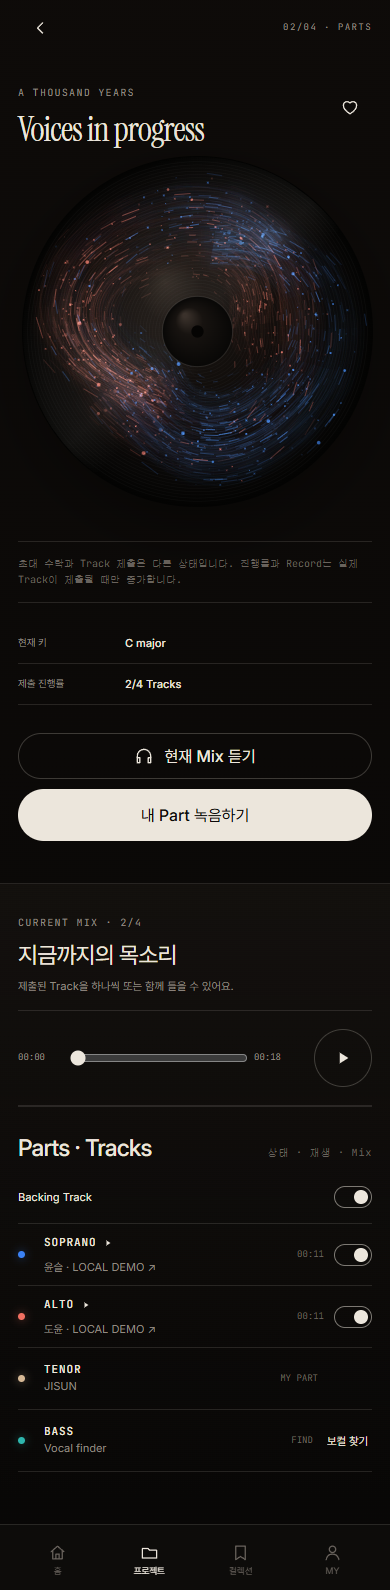
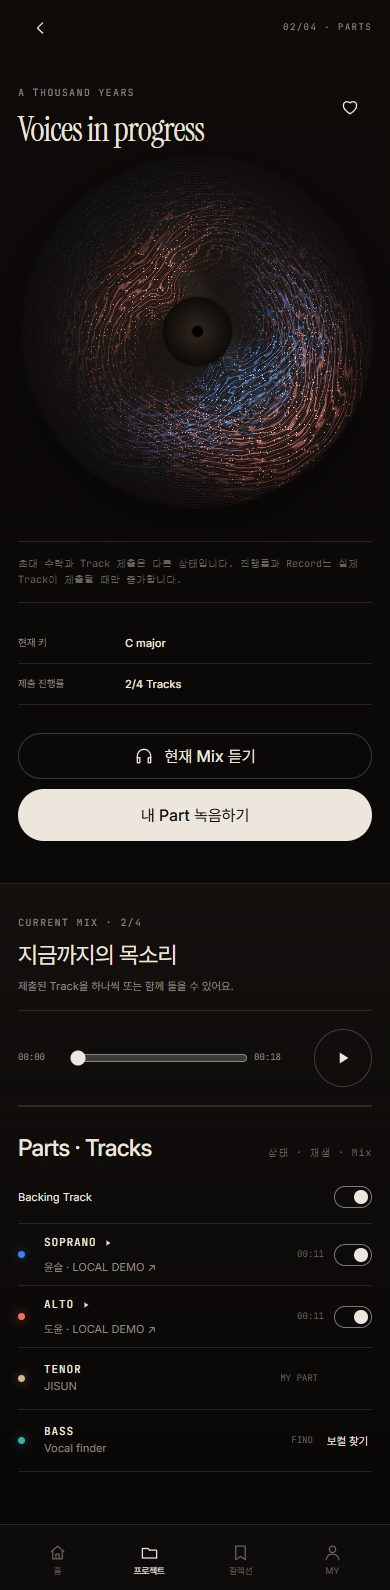
Replace resonance canvas with WebGL flow field

Changed region(s): [[0.1231, 0.1233, 0.9231, 0.3082]]

diff --git a/src/App.jsx b/src/App.jsx
@@ -181,171 +181,71 @@ function ResonanceRecord({ active = [true, false, true, false], layers = [], act
   useEffect(() => {
     const canvas = canvasRef.current
     if (!canvas) return
-    const ctx = canvas.getContext('2d')
-    const ratio = Math.min(window.devicePixelRatio || 1, 2)
-    let frame = 0, raf = 0, lastPaint = 0
-    const resize = () => {
-      const size = canvas.clientWidth
-      if (size < 8) return false
-      canvas.width = size * ratio
-      canvas.height = size * ratio
-      ctx.setTransform(ratio, 0, 0, ratio, 0, 0)
-      return true
-    }
-    resize()
     const numericSeed = typeof seed === 'number' ? seed : [...String(seed)].reduce((sum,char,index)=>sum+char.charCodeAt(0)*(index+17),0)
-    const random = value => {
-      const x = Math.sin(value * 12.9898 + numericSeed * 0.0147) * 43758.5453
-      return x - Math.floor(x)
+    const slots=Array(4).fill(null)
+    if(layers.length)layers.forEach((layer,index)=>{const partIndex=PARTS.findIndex(part=>part.id===layer?.partId);slots[partIndex>=0?partIndex:index]=layer})
+    else active.forEach((enabled,index)=>{if(enabled)slots[index]={partId:PARTS[index]?.id,seed:numericSeed+index*97,baseRadius:[.72,.59,.48,.36][index],spread:.1,turbulence:.72,opacity:.34,phase:index*1.47}})
+    if(state==='recording'&&!slots[activePartIndex])slots[activePartIndex]={partId:PARTS[activePartIndex]?.id,seed:numericSeed+activePartIndex*997,baseRadius:[.72,.59,.48,.36][activePartIndex],spread:.09,turbulence:1,opacity:.3,phase:activePartIndex}
+    const gl=canvas.getContext('webgl',{alpha:true,antialias:true,premultipliedAlpha:true})
+    let raf=0,lastPaint=0
+    if(!gl){
+      const ctx=canvas.getContext('2d'),ratio=Math.min(window.devicePixelRatio||1,2)
+      const drawFallback=()=>{const size=canvas.clientWidth;if(size<8)return;canvas.width=size*ratio;canvas.height=size*ratio;ctx.setTransform(ratio,0,0,ratio,0,0);const c=size/2,r=c-3;ctx.clearRect(0,0,size,size);ctx.beginPath();ctx.arc(c,c,r,0,Math.PI*2);ctx.fillStyle='#090706';ctx.fill();slots.forEach((layer,index)=>{if(!layer)return;ctx.beginPath();ctx.arc(c,c,r*(.48+index*.06),0,Math.PI*2);ctx.strokeStyle=['#3e89ff','#ff7967','#e8c599','#43c7be'][index];ctx.globalAlpha=.45;ctx.lineWidth=3;ctx.stroke()});ctx.globalAlpha=1;ctx.beginPath();ctx.arc(c,c,r*.2,0,Math.PI*2);ctx.fillStyle='#0b0908';ctx.fill()}
+      drawFallback();const observer=new ResizeObserver(drawFallback);observer.observe(canvas);return()=>observer.disconnect()
     }
-    const colors = ['62,137,255','255,121,103','232,197,153','67,199,190']
-    const draw = (now = 0) => {
-      if (now && now - lastPaint < 48) { raf = requestAnimationFrame(draw); return }
-      if (now) lastPaint = now
-      const size = canvas.clientWidth
-      if (size < 8) return
-      const center = size / 2
-      const radius = center - 4
-      ctx.clearRect(0, 0, size, size)
-      const base = ctx.createRadialGradient(center * .82, center * .72, 0, center, center, radius)
-      base.addColorStop(0, '#312923'); base.addColorStop(.18, '#1a1512'); base.addColorStop(.58, '#0f0c0a'); base.addColorStop(.9, '#080706'); base.addColorStop(1, '#030302')
-      ctx.beginPath(); ctx.arc(center, center, radius, 0, Math.PI * 2); ctx.fillStyle = base; ctx.fill()
-      ctx.save(); ctx.beginPath(); ctx.arc(center, center, radius - 1, 0, Math.PI * 2); ctx.clip()
-      for (let r = radius * .22; r < radius * .97; r += 3.2) {
-        ctx.beginPath(); ctx.arc(center, center, r, 0, Math.PI * 2)
-        ctx.strokeStyle = `rgba(236,230,220,${.025 + (r % 9) * .0015})`; ctx.lineWidth = .65; ctx.stroke()
-      }
-      const layerSlots = layers.length ? layers.map(layer=>layer||null) : active.map((enabled,voice) => enabled ? { partId:PARTS[voice]?.id,seed:numericSeed+voice*97,spread:.09,turbulence:.72,filamentCount:14,particleCount:80,opacity:.3,phase:voice*1.47,envelope:Array(24).fill(.42) } : null)
-      layerSlots.forEach((storedLayer, voice) => {
-        const isLive = state === 'recording' && voice === activePartIndex
-        if (!storedLayer && !isLive) return
-        const layer = storedLayer || { seed:numericSeed + voice * 997, baseRadius:[.72,.59,.48,.35][voice], spread:.08, turbulence:1, filamentCount:12, particleCount:58, opacity:.28, phase:voice }
-        const liveLevel = levelRef.current
-        const energy = isLive ? .78 + liveLevel * .9 : state === 'playing' ? .96 : state === 'complete' ? .9 : .78
-        const lineCount = Math.max(30,Math.min(52,(layer.filamentCount||12)*2.45))
-        const rotation = frame * (voice % 2 ? -.00019 : .00016)
-        const envelopeAt=t=>layer.envelope?.[Math.min((layer.envelope?.length||1)-1,Math.floor(t*(layer.envelope?.length||1)))]||.35
-        const voicePhase=(layer.phase||0)+voice*.31
-        const baseRadius=.54+((layer.baseRadius??.52)-.54)*.3
-        const turbulence=layer.turbulence||.7
-        const spread=layer.spread||.09
-        const peakA=.08+random((layer.seed||0)+voice*113)*.36
-        const peakB=(peakA+.38+random((layer.seed||0)+voice*173)*.22)%1
-        const circularDistance=(a,b)=>Math.min(Math.abs(a-b),1-Math.abs(a-b))
-        const presenceAt=t=>{
-          const a=Math.exp(-Math.pow(circularDistance(t,peakA)/.17,2))
-          const b=Math.exp(-Math.pow(circularDistance(t,peakB)/.12,2))*.82
-          return .055+Math.max(a,b)
-        }
-        const flowPoint=(t,band=0,flutter=0,branch=0)=>{
-          const angle=voicePhase+(t-.08)*Math.PI*2.18+rotation+Math.sin(t*Math.PI*4.2+voicePhase)*turbulence*.035+branch*Math.sin(t*Math.PI)*.34
-          const width=radius*(.04+spread*.82)*(.55+Math.sin(t*Math.PI)*.64)
-          const voiceShape=Math.sin(angle*1.37+voicePhase)*radius*(.095+turbulence*.012)+Math.sin(angle*3.13+(layer.seed||0)*.00003)*radius*(.035+turbulence*.008)
-          const breath=isLive?Math.sin(t*Math.PI*10+frame*.055)*liveLevel*radius*.032:0
-          const rr=radius*baseRadius+voiceShape+band*width+branch*Math.sin(t*Math.PI)*radius*.065+flutter+breath
-          return [center+Math.cos(angle)*rr*(1+.055*Math.sin(angle*2.05+voice)),center+Math.sin(angle)*rr*(.985+.025*Math.cos(angle*1.7))]
-        }
-        ctx.save()
-        ctx.globalCompositeOperation = 'screen'
-        ctx.lineCap='round'
-        ctx.filter='blur(6px)'
-        for(let haze=0;haze<4;haze++){
-          const branch=haze===1?-.62:haze===2?.62:0
-          for(let start=0;start<96;start+=6){
-            ctx.beginPath()
-            for(let i=start;i<=start+6;i++){
-              const t=i/96
-              const point=flowPoint(t,(haze-1.5)*.4,0,branch)
-              if(i===start)ctx.moveTo(point[0],point[1]);else ctx.lineTo(point[0],point[1])
-            }
-            const presence=presenceAt((start+3)/96)
-            ctx.strokeStyle=`rgba(${colors[voice]},${(.018+energy*.018)*presence})`
-            ctx.lineWidth=16+haze*4.5
-            ctx.stroke()
-          }
-        }
-        ctx.filter='none'
-        for (let line = 0; line < lineCount; line++) {
-          const points = 84
-          const band=(line-(lineCount-1)/2)/(lineCount/2)
-          const branch=line%9===0?(line%18===0?-.58:.58):0
-          const edge=1-Math.abs(band)*.68
-          const isCore=Math.abs(band)<.34
-          ctx.shadowBlur=isCore?2.8:0
-          ctx.shadowColor=isCore?`rgba(${colors[voice]},.42)`:'transparent'
-          for(let start=0;start<points;start+=4){
-            ctx.beginPath()
-            for(let i=start;i<=Math.min(points,start+4);i++){
-              const t=i/points
-              const grain=Math.sin(t*Math.PI*(8.5+turbulence*2)+line*.79+(layer.seed||0)*.00004)*radius*(.0025+turbulence*.0045)
-              const point=flowPoint(t,band,grain,branch)
-              if(i===start)ctx.moveTo(point[0],point[1]);else ctx.lineTo(point[0],point[1])
-            }
-            const segmentT=(start+2)/points
-            const envelope=.25+envelopeAt(segmentT)*.95
-            const pulse=.72+.28*Math.sin(segmentT*Math.PI*6+voicePhase+line*.11)
-            ctx.strokeStyle=`rgba(${colors[voice]},${(.055+(layer.opacity||.3)*.2+energy*.055)*edge*envelope*pulse*presenceAt(segmentT)})`
-            ctx.lineWidth=.32+(line%7)*.12
-            ctx.stroke()
-          }
-          ctx.shadowBlur=0
-        }
-        const density = compact ? .62 : 1
-        const particles = Math.round(Math.min(980,Math.max(620,(layer.particleCount||58)*8.7))*density)
-        for (let p = 0; p < particles; p++) {
-          const centerPeak=random(p*59+(layer.seed||0))<.62?peakA:peakB
-          const cluster=(random(p*17+voice*401+(layer.seed||0))+random(p*23+(layer.seed||0))+random(p*29+voice)-1.5)*.24
-          const t=(centerPeak+cluster+1)%1
-          const band=(random(p*31+(layer.seed||0))+random(p*37+voice)-1)*1.32
-          const branchRoll=random(p*47+(layer.seed||0)+voice*29)
-          const branch=branchRoll>.88?.58:branchRoll<.12?-.58:0
-          const flutter=(random(p*11+voice)-.5)*radius*(.009+turbulence*.012)
-          const point=flowPoint(t,band,flutter,branch)
-          const envelope=envelopeAt(t)
-          const alpha=(.18+random(p+numericSeed+(layer.seed||0))*.76)*energy*(.36+envelope*.92)*(1-Math.abs(band)*.42)
-          const dot=.34+random(p*13)*1.55
-          if(p%2===0){
-            const next=flowPoint(Math.min(1,t+.009+random(p*43)*.011),band,flutter,branch)
-            ctx.beginPath();ctx.moveTo(point[0],point[1]);ctx.lineTo(next[0],next[1])
-            ctx.strokeStyle=`rgba(${colors[voice]},${alpha*.72})`;ctx.lineWidth=.3+random(p*53)*.8;ctx.stroke()
-          }else{
-            ctx.fillStyle = `rgba(${colors[voice]},${alpha})`
-            ctx.fillRect(point[0],point[1],dot,dot)
-          }
-          if (p % 29 === 0) {
-            ctx.beginPath();ctx.arc(point[0],point[1],.7+random(p*19)*1.2,0,Math.PI*2)
-            ctx.fillStyle=`rgba(${colors[voice]},${Math.min(.78,alpha*1.55)})`;ctx.fill()
-          }
-        }
-        ctx.restore()
-      })
-      if (state === 'recording') {
-        const voice = Math.max(0,activePartIndex), liveColor = colors[voice]
-        const liveLevel = levelRef.current
-        ctx.save(); ctx.globalCompositeOperation='source-over'
-        for(let stream=0;stream<9;stream++){
-          const drift=(stream-4)*2.2
-          ctx.beginPath();ctx.moveTo(center+drift,size+8)
-          ctx.bezierCurveTo(center+drift*3,size*.82,center+Math.sin(stream)*18,size*.68,center+Math.cos(stream)*10,center+radius*.56)
-          ctx.strokeStyle=`rgba(${liveColor},${.045+liveLevel*.14})`;ctx.lineWidth=.6+(stream%3)*.25;ctx.stroke()
-        }
-        ctx.restore()
-      }
-      const sheen = ctx.createLinearGradient(0, 0, size, size)
-      sheen.addColorStop(.2, 'rgba(236,230,220,0)'); sheen.addColorStop(.48, 'rgba(236,230,220,.055)'); sheen.addColorStop(.56, 'rgba(236,230,220,0)')
-      ctx.fillStyle = sheen; ctx.fillRect(0, 0, size, size)
-      ctx.restore()
-      const hub = ctx.createRadialGradient(center * .93, center * .91, 2, center, center, radius * .2)
-      hub.addColorStop(0, '#3a312b'); hub.addColorStop(.35, '#171310'); hub.addColorStop(1, '#080706')
-      ctx.beginPath(); ctx.arc(center, center, radius * .2, 0, Math.PI * 2); ctx.fillStyle = hub; ctx.fill(); ctx.strokeStyle = 'rgba(236,230,220,.12)'; ctx.stroke()
-      ctx.beginPath(); ctx.arc(center, center, radius * .035, 0, Math.PI * 2); ctx.fillStyle = '#050403'; ctx.fill()
-      frame++
-      if (state === 'recording' || state === 'processing') raf = requestAnimationFrame(draw)
-    }
-    draw()
-    const observer = new ResizeObserver(() => { cancelAnimationFrame(raf); if (resize()) draw() })
+    const vertex=`attribute vec2 aPosition;varying vec2 vUv;void main(){vUv=aPosition*.5+.5;gl_Position=vec4(aPosition,0.,1.);}`
+    const fragment=`precision highp float;
+varying vec2 vUv;uniform vec2 uResolution;uniform float uTime;uniform float uLiveLevel;uniform float uLiveIndex;uniform vec4 uLayerA[4];uniform vec4 uLayerB[4];
+float hash21(vec2 p){p=fract(p*vec2(123.34,456.21));p+=dot(p,p+45.32);return fract(p.x*p.y);}
+float noise(vec2 p){vec2 i=floor(p),f=fract(p);f=f*f*(3.-2.*f);return mix(mix(hash21(i),hash21(i+vec2(1,0)),f.x),mix(hash21(i+vec2(0,1)),hash21(i+vec2(1)),f.x),f.y);}
+float fbm(vec2 p){float v=0.,a=.5;for(int j=0;j<4;j++){v+=a*noise(p);p=p*2.03+vec2(17.1,9.2);a*=.5;}return v;}
+vec3 voiceColor(int i){if(i==0)return vec3(.24,.54,1.);if(i==1)return vec3(1.,.43,.35);if(i==2)return vec3(.94,.78,.58);return vec3(.22,.78,.73);}
+void main(){
+ vec2 p=(vUv-.5)*2.;float r=length(p),ang=atan(p.y,p.x);float disc=1.-smoothstep(.965,.997,r);
+ vec3 col=mix(vec3(.025,.019,.016),vec3(.12,.095,.076),max(0.,1.-r)*.55);
+ float grooves=(.5+.5*sin(r*430.+sin(ang*3.)*1.7))*(.01+.013*smoothstep(.2,.95,r));col+=vec3(grooves);
+ for(int i=0;i<4;i++){
+  vec4 a=uLayerA[i],b=uLayerB[i];if(a.x<.5)continue;
+  float live=1.-step(.45,abs(float(i)-uLiveIndex));float seed=b.z*37.13;
+  vec2 polar=vec2(cos(ang),sin(ang));
+  float warp=(fbm(polar*1.65+vec2(r*2.7+seed,-r*2.1+seed*.7))-.5)*(.2+a.w*.085);
+  float theta=ang+warp+sin(ang*2.+b.x)*.035;
+  float center=.54+(a.y-.54)*.31+sin(theta+b.x)*(.12+a.w*.014)+sin(theta*3.+seed)*(.045+a.w*.009);
+  center+=live*sin(theta*8.+uTime*3.2)*uLiveLevel*.028;
+  float width=.062+a.z*.78;float d=abs(r-center);float ribbon=exp(-1.9*d*d/(width*width));
+  float lobeA=pow(.5+.5*cos(theta-b.x*.73-seed*.11),3.4);float lobeB=.78*pow(.5+.5*cos(theta-b.x*.41+2.35+seed*.07),5.2);float presence=.055+max(lobeA,lobeB);
+  float flowNoise=fbm(polar*2.45+vec2((r-center)*12.+seed,-(r-center)*10.+seed*.4));
+  float fibers=pow(.5+.5*cos((r-center)*178.+flowNoise*24.+sin(theta*7.+seed)*2.4),10.);
+  float hair=pow(.5+.5*cos((r-center)*318.+flowNoise*15.),17.);
+  vec2 sparkGrid=(p+vec2(seed*.01))*uResolution.x*.18;vec2 sparkCell=floor(sparkGrid);vec2 sparkUv=fract(sparkGrid)-.5;
+  float sparkShape=smoothstep(.34,.035,length(sparkUv));float spark=sparkShape*step(.9,hash21(sparkCell+seed))*ribbon*presence;
+  vec2 pinGrid=(p+vec2(seed*.013))*uResolution.x*.31;vec2 pinCell=floor(pinGrid);vec2 pinUv=fract(pinGrid)-.5;
+  float pinShape=smoothstep(.22,.018,length(pinUv));float pin=pinShape*step(.94,hash21(pinCell-seed))*ribbon*presence;
+  float intensity=ribbon*presence*(.045+fibers*.72+hair*.28)+spark*3.1+pin*3.4;
+  intensity*=.72+b.y*.78+live*uLiveLevel*.55;col+=voiceColor(i)*intensity;
+ }
+ float sheen=smoothstep(.13,0.,abs(p.x+p.y*.58-.12))*(1.-smoothstep(.18,.9,r))*.045;col+=vec3(.75,.68,.58)*sheen;
+ float hub=1.-smoothstep(.185,.202,r);vec3 hubCol=mix(vec3(.025,.019,.016),vec3(.19,.15,.12),max(0.,1.-r/.2)*.7);col=mix(col,hubCol,hub);
+ float hole=1.-smoothstep(.026,.038,r);col=mix(col,vec3(.005,.004,.003),hole);
+ col=1.-exp(-col*1.18);col=pow(col,vec3(.9));gl_FragColor=vec4(col*disc,disc);
+}`
+    const compile=(type,source)=>{const shader=gl.createShader(type);gl.shaderSource(shader,source);gl.compileShader(shader);if(!gl.getShaderParameter(shader,gl.COMPILE_STATUS))throw new Error(gl.getShaderInfoLog(shader));return shader}
+    let program
+    try{program=gl.createProgram();gl.attachShader(program,compile(gl.VERTEX_SHADER,vertex));gl.attachShader(program,compile(gl.FRAGMENT_SHADER,fragment));gl.linkProgram(program);if(!gl.getProgramParameter(program,gl.LINK_STATUS))throw new Error(gl.getProgramInfoLog(program))}catch(error){console.error('Resonance shader unavailable',error);return}
+    gl.useProgram(program)
+    const buffer=gl.createBuffer();gl.bindBuffer(gl.ARRAY_BUFFER,buffer);gl.bufferData(gl.ARRAY_BUFFER,new Float32Array([-1,-1,1,-1,-1,1,-1,1,1,-1,1,1]),gl.STATIC_DRAW)
+    const position=gl.getAttribLocation(program,'aPosition');gl.enableVertexAttribArray(position);gl.vertexAttribPointer(position,2,gl.FLOAT,false,0,0)
+    const layerA=new Float32Array(16),layerB=new Float32Array(16)
+    slots.forEach((layer,index)=>{if(!layer)return;layerA.set([1,layer.baseRadius??.52,layer.spread??.09,layer.turbulence??.7],index*4);layerB.set([layer.phase??index,layer.opacity??.3,((layer.seed??numericSeed+index*97)%100000)/100000,0],index*4)})
+    gl.uniform4fv(gl.getUniformLocation(program,'uLayerA[0]'),layerA);gl.uniform4fv(gl.getUniformLocation(program,'uLayerB[0]'),layerB)
+    gl.uniform1f(gl.getUniformLocation(program,'uLiveIndex'),state==='recording'?activePartIndex:-10)
+    const timeLocation=gl.getUniformLocation(program,'uTime'),levelLocation=gl.getUniformLocation(program,'uLiveLevel'),resolutionLocation=gl.getUniformLocation(program,'uResolution')
+    const ratio=Math.min(window.devicePixelRatio||1,compact?1.55:2)
+    const resize=()=>{const size=canvas.clientWidth;if(size<8)return false;const pixels=Math.round(size*ratio);if(canvas.width!==pixels||canvas.height!==pixels){canvas.width=pixels;canvas.height=pixels;gl.viewport(0,0,pixels,pixels)}gl.uniform2f(resolutionLocation,pixels,pixels);return true}
+    const draw=(now=0)=>{if(now&&now-lastPaint<48){raf=requestAnimationFrame(draw);return}if(now)lastPaint=now;if(!resize())return;gl.uniform1f(timeLocation,now*.001);gl.uniform1f(levelLocation,levelRef.current);gl.clearColor(0,0,0,0);gl.clear(gl.COLOR_BUFFER_BIT);gl.drawArrays(gl.TRIANGLES,0,6);if(state==='recording'||state==='processing')raf=requestAnimationFrame(draw)}
+    draw();const observer=new ResizeObserver(()=>{cancelAnimationFrame(raf);draw()})
     observer.observe(canvas)
-    return () => { observer.disconnect(); cancelAnimationFrame(raf) }
+    return () => { observer.disconnect(); cancelAnimationFrame(raf);gl.deleteBuffer(buffer);gl.deleteProgram(program) }
   }, [active.join(','), layers.map(layer=>layer?.signature||'').join(','), activePartIndex, state, seed])
   const layerCount = layers.length ? layers.filter(Boolean).length : active.filter(Boolean).length
   return <figure className={`record ${compact ? 'record-compact' : ''}`} data-state={state} data-record-signature={projectRecordSignature(String(seed),layers)} aria-label={label || `공명 레코드, ${layerCount}개 Track 활성`}>
